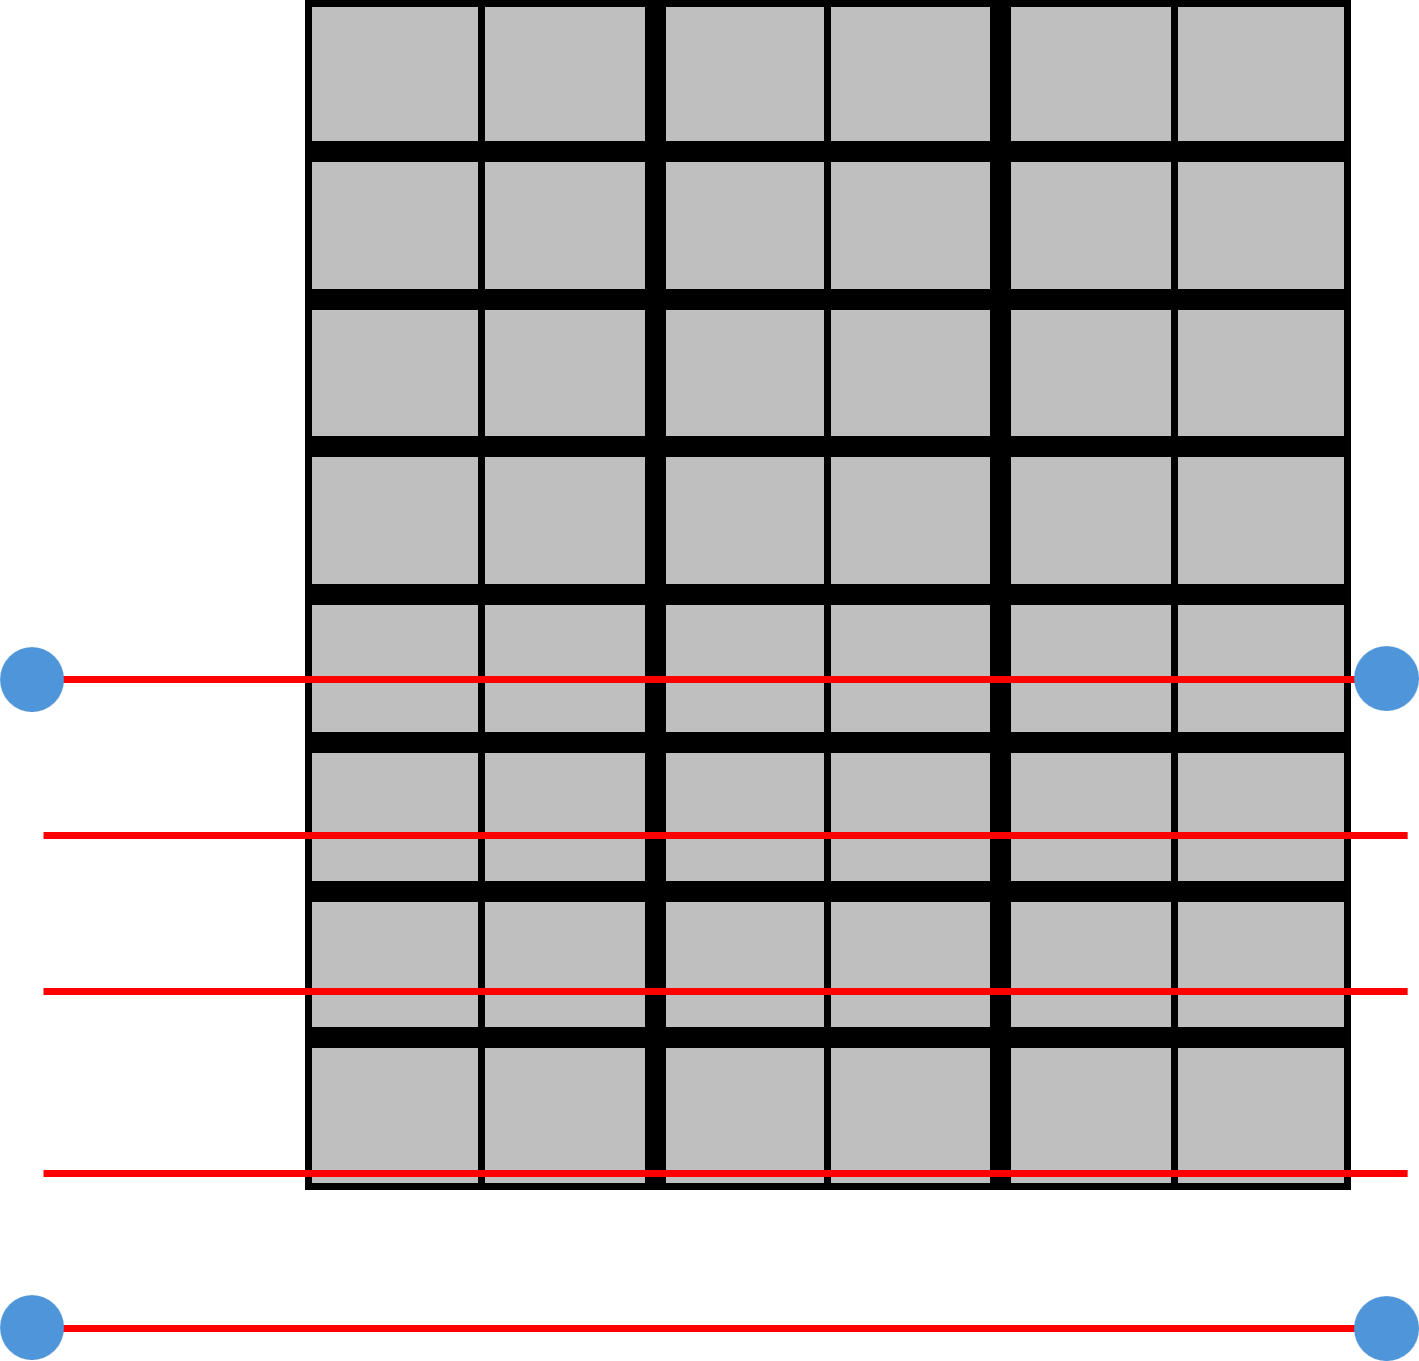
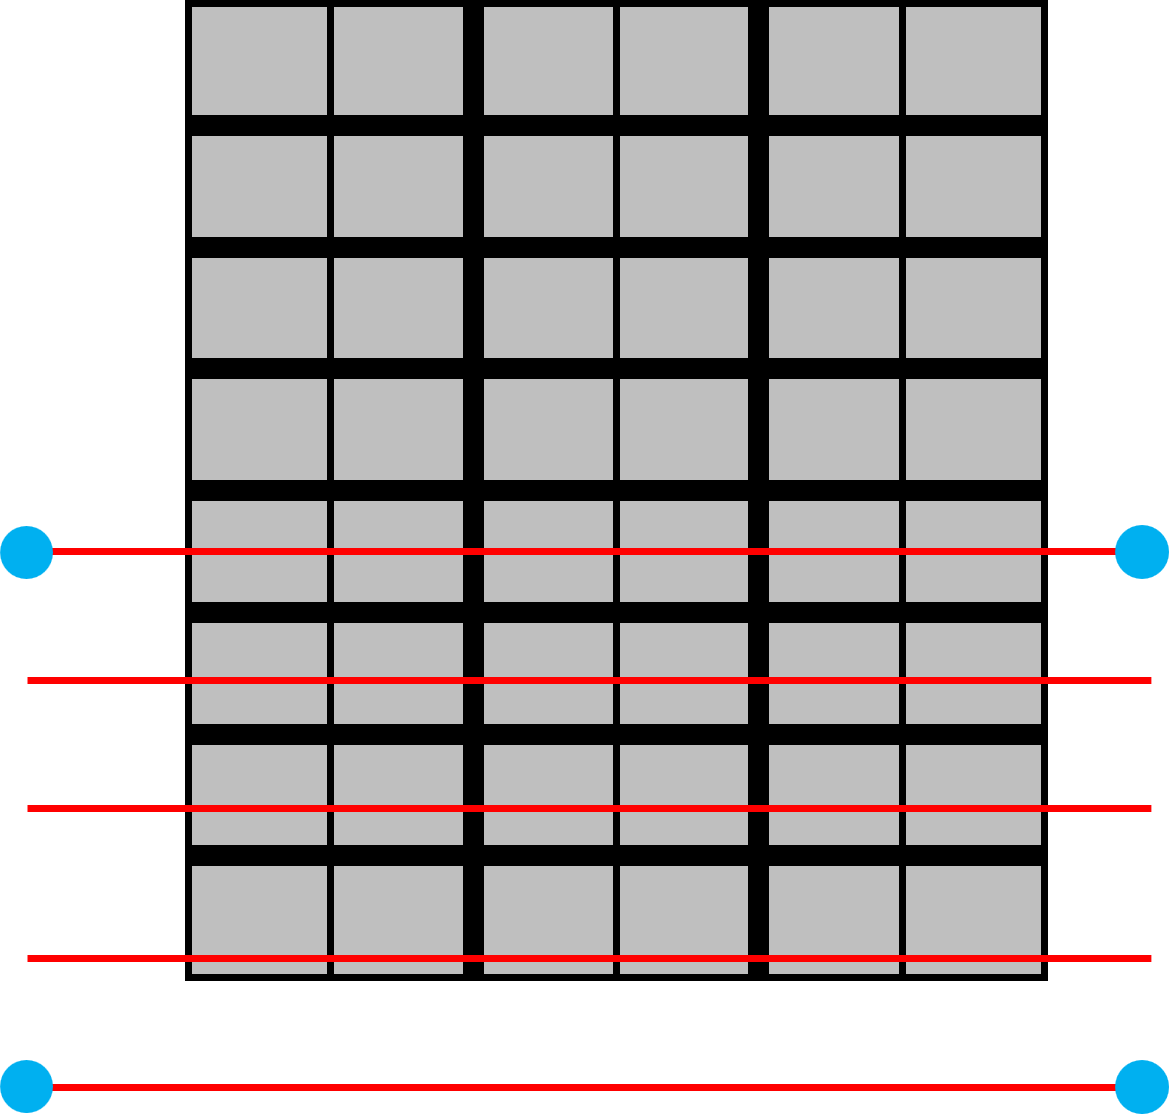
initial file type commit

Changed region(s): [[0.0, 0.0, 1.0, 0.8851], [0.9547, 0.9461, 1.0, 1.0], [0.0, 0.9461, 0.0616, 1.0]]

diff --git a/multiposrust/src/lib.rs b/multiposrust/src/lib.rs
@@ -1,6 +1,5 @@
 use chrono::{DateTime, Datelike, Local};
-use cryiorust::{cbf::Cbf, edf::{self, Edf}, frame::{ Array, Frame, Header, HeaderEntry::{self, Float}}, 
-poni::{DetectorConfig, Poni}};
+use cryiorust::{cbf::Cbf, edf::{self, Edf}, frame::{ Array, Frame, Header, HeaderEntry::{self, Float}}, poni::{DetectorConfig, Poni}};
 use fluosubtraction_rust::functions::fluosub_curvefit;
 use integrustio::{ geometry::{IntoGeometry, Units::{self}}, integrator::{Cake, Integrator, KEY_BUBBLE_MADE}};
 use rayon::iter::{IndexedParallelIterator, IntoParallelIterator,  ParallelIterator};
@@ -10,16 +9,19 @@ sync::Arc, vec};
 use glob::{ glob};
 use functions::{save1d, cakeav, getmedian, closestindexordered,getyz};
 
-use crate::{functions::yzcompare, poniinterpolator::{Interpolators, PoniList}};
+use crate::{functions::yzcompare, imagereader::ImageFlux, poniinterpolator::{Interpolators, PoniList}};
 
 #[derive(Debug)]
 pub struct BuildError;
 
 mod functions;
 pub mod poniinterpolator;
+mod imagereader;
+
 pub struct ImagePoni{
+    pub namestem: String,
     pub poni:Poni,
-    pub cbf:Cbf,
+    pub normalisedarray:Array,
 }
 
 fn strtounits(unitstr:Option<&str>)->Units{
@@ -50,32 +52,48 @@ fn optiontostr(unito:Option<&str>)-> String{
     String::from(units)
 }
 
-fn buildip(poni:Poni, cbffile: &Path,mask: Option<&Array>) -> Result<ImagePoni, BuildError>{
-        let mut cbf = Cbf::open(cbffile).expect(&format!("couldn't open file: {cbffile:?}"));
-        let flux = match cbf.header().get("# Flux "){
-            Some(Float(f64)) => f64.clone(),
-            _ => {eprintln!("couldn\'t find flux for {cbffile:?}");
-                return Err(BuildError)},
+fn buildip(poni:Poni, cbffile: &Path,mask: Option<&Array>, flatfield: Option<&Array>) -> Result<ImagePoni, BuildError>{
+
+        let imf = match ImageFlux::readimage(cbffile){
+            Err(_e) => return Err(BuildError),
+            Ok(i) => i,
         };
+        let flux = imf.flux;
+        let dim1 = imf.array.dim1();
+        let dim2 = imf.array.dim2();
+        let name = imf.namestem;
+        let ff:&Array = match flatfield{
+            None => &Array::with_data(dim1, dim2, vec![1.;dim1*dim2]),
+            Some(a) => a,
+        };
+        let mut domask:bool;
+        let mut datavec : Vec<f64> = Vec::new();
         if let Some(mask) = mask{
-            for (i , m) in cbf.array_mut().data_mut().iter_mut().zip(mask.data().iter()){
-                *i = *i/ flux;
-                if *m > 0. {
-                    *i = -1.;
+            let mut x: f64;
+            for ((i , m),f) in imf.array.data().iter().zip(mask.data().iter()).zip(ff.data().iter()){
+                domask = (*i < 0.) | (*m > 0.) | (*f<0.);
+                if domask{
+                    datavec.push(-1.);
+                    continue;
                 }
+                x = *i/ flux;
+                x = x / f;
+                datavec.push(x);
             }
         }
-        Ok(ImagePoni { poni, cbf })
+        let normalisedarray = Array::with_data(dim1, dim2, datavec);
+
+        Ok(ImagePoni {namestem: name , poni, normalisedarray })
     }
 
 impl ImagePoni {
-    pub fn build(ponifile:&Path, cbffile: &Path, dc: Option<Arc<DetectorConfig>>, mask: Option<&Array>) -> Result<ImagePoni, BuildError>{
+    pub fn build(ponifile:&Path, cbffile: &Path, dc: Option<Arc<DetectorConfig>>, mask: Option<&Array>, flatfield: Option<&Array>) -> Result<ImagePoni, BuildError>{
         let poni = Poni::open(ponifile, dc).unwrap() ;
-        buildip(poni, cbffile, mask)
+        buildip(poni, cbffile, mask, flatfield)
     }
 
-    pub fn buildfromponi(poni:Poni, cbffile: &Path,mask: Option<&Array>) -> Result<ImagePoni, BuildError>{
-        buildip(poni, cbffile, mask)
+    pub fn buildfromponi(poni:Poni, cbffile: &Path,mask: Option<&Array>, flatfield: Option<&Array>) -> Result<ImagePoni, BuildError>{
+        buildip(poni, cbffile, mask, flatfield)
     }
 
     pub fn integrate(self, tthmin:f64, tthmax:f64, tthbins:usize, chimin:f64, chimax: f64, 
@@ -90,14 +108,14 @@ impl ImagePoni {
         i.set_azimuthal_range(Some((chimin,chimax)));
         i.set_radial_range(Some((tthmin,tthmax)));
         i.set_solid_angle(true, true);
-        i.init(self.cbf.array());
-        let (cake, _) = i.integrate_cake(self.cbf.array()).unwrap();
+        i.init(&self.normalisedarray);
+        let (cake, _) = i.integrate_cake(&self.normalisedarray).unwrap();
         cake
     }
 
     pub fn get_cake(self,tthmin:f64, tthmax:f64, tthbins:usize, chimin:f64, chimax: f64, 
                 chibins: usize, pfactor: f64, cakedir:Option<&String>, units:&str )->Cake{
-        let mut fname = self.cbf.name().to_string();
+        let mut fname = self.namestem.clone();
         fname.push_str(".edf");
         let cake = self.integrate(tthmin, tthmax, tthbins, chimin, chimax, chibins, pfactor, units);
         
@@ -127,7 +145,7 @@ impl MultiFile{
 
     pub fn build(cbfdir:&String, ponidir: &String, tthmin:f64, tthmax:f64, tthbins:usize, chimin: f64, chimax: f64, 
                 chibins:usize, pfactor:f64, maskfile: Option<&Path>, maskdir: Option<String>, unit:Option<&str>, ymotor:&String,
-            zmotor:&String) -> Result<MultiFile,BuildError> {
+            zmotor:&String, flatfieldfile: Option<&Path>) -> Result<MultiFile,BuildError> {
                     //let units = strtoUnits(units);
                     let units = optiontostr(unit);
                     let mut dc: Option<Arc<DetectorConfig>> = None;
@@ -137,9 +155,17 @@ impl MultiFile{
                     let binding: edf::Edf;
                     let mask: Option<&Array> = match maskfile {
                         None => None,
-                        Some(f) => {binding = edf::Edf::open(f)
-                                          .expect(format!("couldn't open or find mask file {f:?}").as_str());
-                                          Some(binding.array())},
+                        Some(f) => {if !f.exists(){eprintln!("couldn't find mask file {f:?}");return Err(BuildError)};
+                            binding = edf::Edf::open(f)
+                            .expect(&format!("couldn't open or find mask file {f:?}"));
+                            Some(binding.array())},
+                    };
+                    let ffbinding : edf::Edf;
+                    let flatfield = match flatfieldfile {
+                        None => None,
+                        Some(f) => {if !f.exists(){eprintln!("couldn't find flat field file {f:?}"); return Err(BuildError);};
+                            ffbinding = Edf::open(f).expect(format!("couldn't open flat field file: {f:?}").as_str());
+                                          Some(ffbinding.array())}
                     };
                     let mut usedmask : Option<&Array> = mask.clone();
                     let mut ilist:Vec<ImagePoni> = Vec::new();
@@ -182,7 +208,7 @@ impl MultiFile{
                                     getdetconf = false;
                                 }
                                 let ip = ImagePoni::build(&ponifile,&cbffile.clone(), dc.clone(),
-                                 usedmask)?;
+                                 usedmask, flatfield)?;
                                 ilist.push(ip);
                                 break;
                             }
@@ -199,7 +225,7 @@ impl MultiFile{
 
     pub fn buildinterpolate(cbfdir:&String, ponidir: &String,tthmin:f64,tthmax:f64,tthbins:usize,chimin:f64, chimax:f64, 
         chibins:usize,pfactor:f64, maskfile: Option<&Path>, maskdir: Option<String>, ponipattern:&String, ymotor:&String, 
-        zmotor:&String,saveponis:bool, unit:Option<&str>)-> Result<MultiFile, BuildError>{
+        zmotor:&String,saveponis:bool, unit:Option<&str>, flatfieldfile: Option<&Path>)-> Result<MultiFile, BuildError>{
         let units = optiontostr(unit);
         let plist = PoniList::build(ponidir, ponipattern, ymotor, zmotor);
         let p0 = plist.ponilist[0].poni.clone();
@@ -212,8 +238,16 @@ impl MultiFile{
         let binding: Edf;
         let mask: Option<&Array> = match maskfile {
             None => None,
-            Some(f) => {binding = edf::Edf::open(f).expect(&format!("couldn't find mask file {f:?}"));
-                                Some(binding.array())},
+            Some(f) => {if !f.exists(){eprintln!("couldn't find mask file {f:?}"); return Err(BuildError);};
+                binding = edf::Edf::open(f).expect(&format!("couldn't find mask file {f:?}"));
+                Some(binding.array())},
+        };
+        let ffbinding:Edf;
+        let flatfield = match flatfieldfile {
+            None => None,
+            Some(f) => {if !f.exists(){eprintln!("couldn't find flat-field file {f:?}");return Err(BuildError)};
+                ffbinding = Edf::open(f).expect(&format!("couldn't open flat field file {f:?}"));
+                Some(ffbinding.array())}
         };
         let cbffiles = glob(&cbfpattern).unwrap();
         let mut usedmask = mask.clone();
@@ -262,7 +296,7 @@ impl MultiFile{
                 .expect(&format!("couldn't create file: {}/{}",&outponidir,&outponistr));
                 file.write_all( poni.to_string().as_bytes()).unwrap();
             }
-            let ip = ImagePoni::buildfromponi(poni, &f, usedmask)?;
+            let ip = ImagePoni::buildfromponi(poni, &f, usedmask, flatfield)?;
             ilist.push(ip);
         }
         if ilist.len() < 2{
@@ -545,7 +579,7 @@ mod tests{
         let ymotor = String::from("dty");
         let zmotor = String::from("dtz");
         let _mf = MultiFile::build(&cbfdir, &ponidir, tthmin, tthmax, tthbins, chimin, chimax, chibins, 
-            pfactor, maskfile, maskdir, unit, &ymotor, &zmotor).unwrap();
+            pfactor, maskfile, maskdir, unit, &ymotor, &zmotor, None).unwrap();
 
     }
 

diff --git a/multiposrust/src/imagereader.rs b/multiposrust/src/imagereader.rs
@@ -1,0 +1,80 @@
+use std::path::Path;
+use cryiorust::{cbf::Cbf, edf::Edf, eiger::Eiger, frame::{Array, Frame, HeaderEntry::Float}};
+
+
+#[derive(Debug)]
+enum ImageFormat {
+    Cbf,
+    Edf,
+    Eiger,    
+}
+
+
+impl ImageFormat{
+    fn fromfilename(filename:&Path)->Result<ImageFormat,ImageReadError >{
+        let ext = filename.extension().unwrap().to_str().unwrap();
+        match ext{
+            "cbf" => return Ok(ImageFormat::Cbf),
+            "edf" => return Ok(ImageFormat::Edf),
+            "hdf5" => return Ok(ImageFormat::Eiger),
+            _ => return Err(ImageReadError)
+        }
+    }
+}
+
+
+#[derive(Debug)]
+pub struct ImageReadError;
+
+
+pub struct ImageFlux{
+    pub namestem: String,
+    pub array: Array,
+    pub flux: f64,
+}
+
+impl ImageFlux{
+    pub fn readimage(imagefile: &Path)-> Result<ImageFlux, ImageReadError>{
+        let extension = ImageFormat::fromfilename(imagefile)?;
+        let c: Cbf;
+        let e: Edf;
+        let ei: Eiger;
+        let dim1: usize;
+        let dim2: usize;
+        let fluxheaderstring = "# Flux ";
+        let name = String::from(imagefile.file_stem().unwrap().to_str().unwrap());
+        let fluxo: Option<&cryiorust::frame::HeaderEntry>;
+        let im = match extension{
+            ImageFormat::Cbf => {c = match Cbf::open(imagefile){Err(_e) => {eprintln!("couldn't open image: {imagefile:?} as cbf"); 
+                                                                                            return Err(ImageReadError)},
+                                                                        Ok(cb) => cb,};
+
+                                dim1 = c.dim1();
+                                dim2 = c.dim2();
+                                fluxo = c.header().get(fluxheaderstring);
+                                c.array().data().clone()},
+            ImageFormat::Edf => {e = match Edf::open(imagefile) { Err(_e) => {eprintln!("couldn't open image {imagefile:?} as edf");
+                                                                                                return Err(ImageReadError)},
+                                                                    Ok(ed)=> ed};
+                                dim1 = e.dim1();
+                                dim2 = e.dim2();
+                                fluxo = e.header().get(fluxheaderstring);
+                                e.array().data().clone()},
+            ImageFormat::Eiger => {ei = match Eiger::open(imagefile){Err(_e) =>{ eprintln!("couldn't open {imagefile:?} as hdf5");
+                                                                                                return Err(ImageReadError)},
+                                                                            Ok(ei) => ei,};
+                                    dim1 = ei.dim1();
+                                    dim2 = ei.dim2();
+                                    fluxo = ei.header().get(fluxheaderstring);
+                                    ei.array().data().clone()},
+        };
+        let flux = match fluxo {
+            Some(Float(f)) => f.clone(),
+            _ => return Err(ImageReadError),
+            
+        };
+
+        let array = Array::with_data(dim1, dim2, im);
+        Ok(ImageFlux{namestem: name, array, flux})
+    }
+}

diff --git a/multiposintegrator/src/main.rs b/multiposintegrator/src/main.rs
@@ -32,6 +32,7 @@ fn main() {
     let fluok0 = ap.fluok0;
     let saveponis = ap.saveponis;
     let unit = ap.unit;
+    let flatfieldfileo = ap.flatfieldfile;
 
     let tmp:String;
     let maskfile: Option<&Path> = match maskfilestr {
@@ -40,6 +41,11 @@ fn main() {
                         Some(Path::new(&tmp))},
     };
 
+    let tmpff: String;
+    let flatfieldfile = match flatfieldfileo{
+        None => None,
+        Some(s) => {tmpff=s;Some(Path::new(&tmpff))},
+    };
     
     let cakedir = match savecakes {
         true => Some(&format!("{cbfdir}/{subdir}")),
@@ -47,7 +53,7 @@ fn main() {
     };
     
     let mf = match MultiFile::buildinterpolate(cbfdir, ponidir, tthmin, tthmax, tthbins, chimin, chimax, chibins, 
-        pfactor, maskfile,maskdir, &ponipattern, &ymotor, &zmotor, saveponis, Some(&unit)){
+        pfactor, maskfile,maskdir, &ponipattern, &ymotor, &zmotor, saveponis, Some(&unit), flatfieldfile){
             Ok(m) => m,
             Err(_e) => {eprintln!("exiting"); exit(1)}
         };

diff --git a/multiposintegrator/src/params.rs b/multiposintegrator/src/params.rs
@@ -1,7 +1,7 @@
 use clap::{ Parser};
 
 #[derive(Parser,Debug)]
-#[command(version,  about = concat!("program for processing X-ray scattering from multiple detector positions.\n",
+#[command(version,  about = concat!("Program for processing X-ray scattering from multiple detector positions.\n",
             "Images and poni files must contain detector positions in name separated by _.\n",
             "e.g. <name>_<ymotor><ypos>_<zmotor><zpos>.cbf or <name>_<ymotor><ypos>_<zmotor><zpos>_<image number>.cbf\n",
             "Poni files only required for corner positions (convex hull) of measurement grid. The rest are interpolated."),
@@ -70,5 +70,7 @@ pub struct Params{
     #[arg(short, long, default_value="TwoTheta", 
     help = "integration unit. Options TwoTheta/2Theta/2theta/twotheta, QA/qa, Qnm/qnm.\nWill default to TwoTheta if invalid")]
     pub unit: String,
-
+    /// flat-field file (optional)
+    #[arg(long, default_value=None)]
+    pub flatfieldfile: Option<String>,
 }

diff --git a/flatfieldcalculator/src/params.rs b/flatfieldcalculator/src/params.rs
@@ -1,7 +1,7 @@
 use clap::{Parser};
 
 #[derive(Parser,Debug)]
-#[command(version, about = concat!("program for calculating flat field given cbfs from multiple detector positions.\n",
+#[command(version, about = concat!("Program for calculating flat field given cbfs from multiple detector positions.\n",
             "Images and poni files must contain detector positions in name separated by _. \n",
              "e.g. <name>_<ymotor><ypos>_<zmotor><zpos>.cbf or <name>_<ymotor><ypos>_<zmotor><zpos>_<image number>.cbf\n",
              "Poni files only required for corner positions (convex hull) of measurement grid. The rest are interpolated."), 

diff --git a/flatfieldcalculator/src/main.rs b/flatfieldcalculator/src/main.rs
@@ -37,7 +37,7 @@ fn main(){
     };
     let now = Instant::now();
     let mf = match MultiFile::buildinterpolate(&cbfdir, &ponidir, tthmin, tthmax, tthbins, chimin, chimax, 
-        chibins, pfactor,maskfile, maskdir, ponipattern, ymotor, zmotor, saveponis, Some(&unit)){
+        chibins, pfactor,maskfile, maskdir, ponipattern, ymotor, zmotor, saveponis, Some(&unit), None){
             Ok(m) => m,
             Err(_e) => {eprintln!("error. Exiting"); exit(1)}
          };

diff --git a/README.md b/README.md
@@ -5,6 +5,8 @@ Includes library and executables for integrating data and calculating flat-field
 Instructions:
 The programs rely on reading the detector y- and z-positions from the file names. Input a path containing the cbf files and one containing the poni files. The poni files must contain all the corner positions (convex hull), the rest can be interpolated. 
 
+Flux required in cbf headers as '# Flux ...'.
+
 Example of file structure here, y and z motors are called dty and dtz respectively
 
 ```
@@ -25,7 +27,7 @@ Example of file structure here, y and z motors are called dty and dtz respective
       |-...
 ```
 
-Example measurement layout - measurements done along red lines, ponis required on blue dots, though others can be calibrated in the middle.
+Example measurement layout - measurements done along red lines, ponis required on cyan dots, though others can be calibrated in the middle.
 
 <img src="images/measurement_diagram.png" width="300"/>
 
